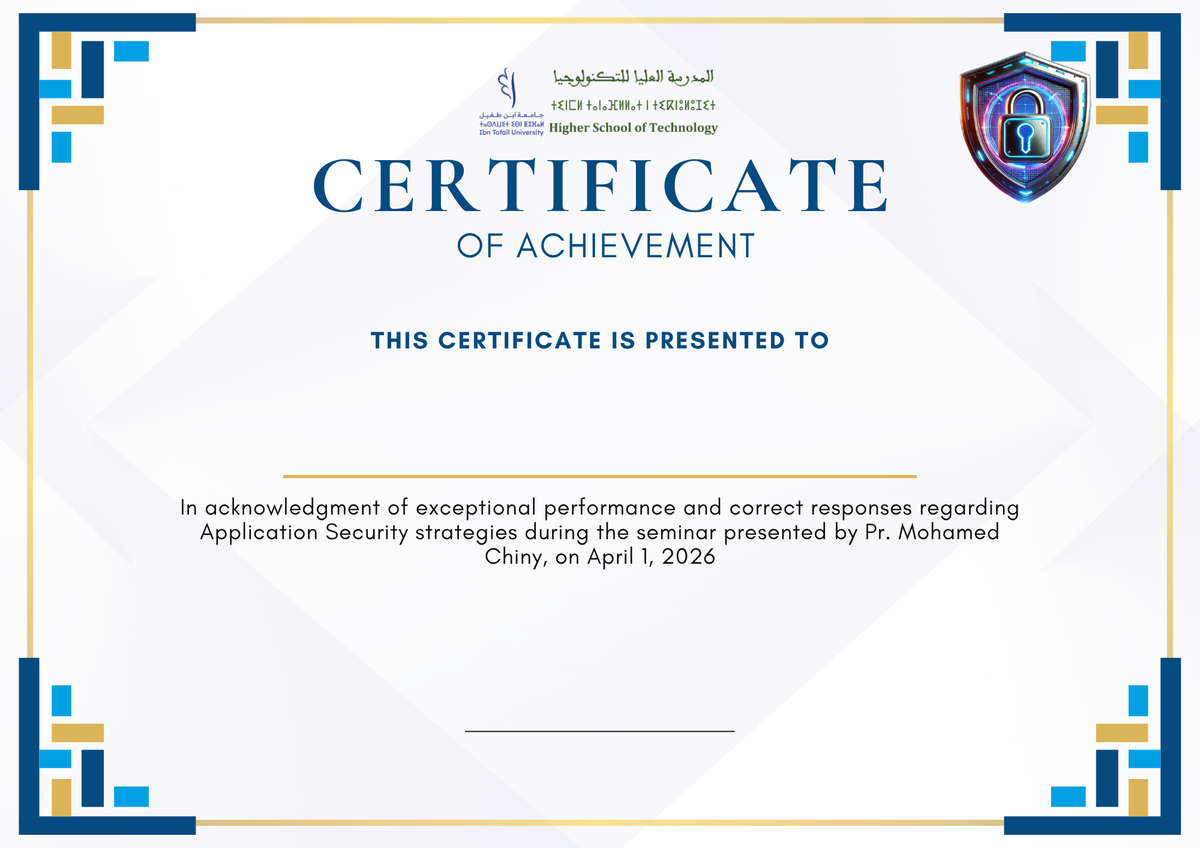
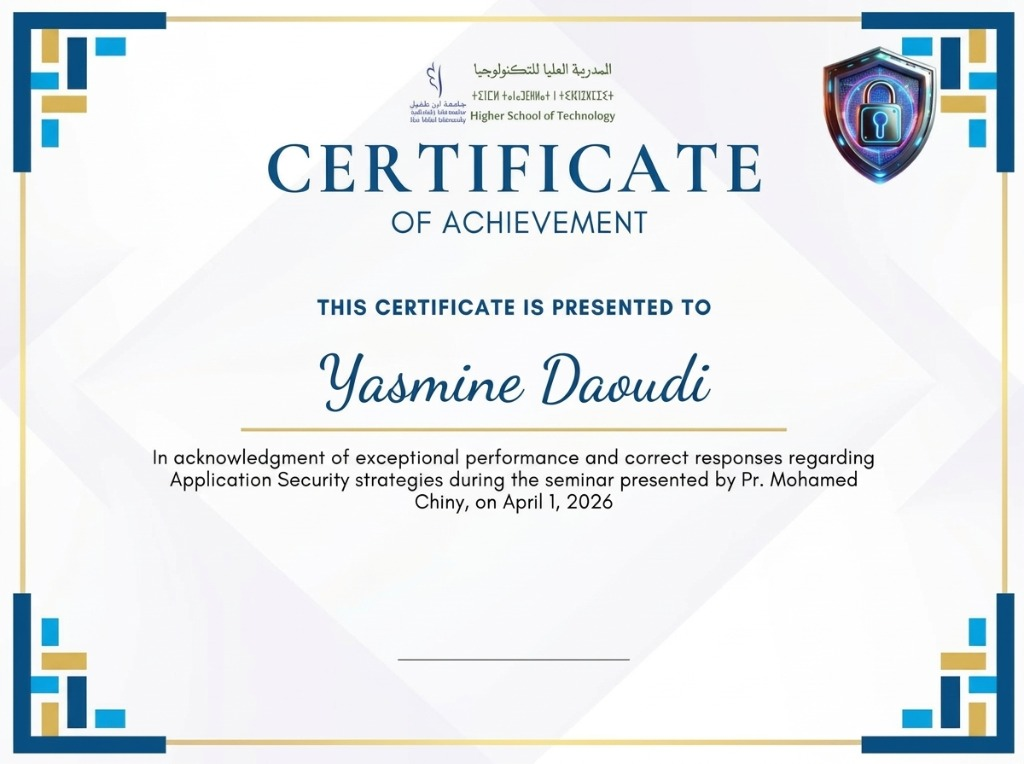
Update Application Security seminar certificate with official verified document

diff --git a/README.md b/README.md
@@ -99,6 +99,7 @@ Click any certificate to inspect the authenticated credential:
 - [![Presenting Data](https://img.shields.io/badge/Presenting_Data-HP_LIFE-0096D6?style=flat-square&logo=hp&logoColor=white)](./certificates/cert_hp_life_presenting_data.png) &middot; [**Presenting Data &middot; HP LIFE Global**](./certificates/cert_hp_life_presenting_data.png)
 - [![OOP with PHP](https://img.shields.io/badge/OOP_with_PHP-Coursera-21759B?style=flat-square&logo=coursera&logoColor=white)](./certificates/cert_oop_php_coursera.png) &middot; [**Learn Object-Oriented Programming with PHP &middot; Coursera**](./certificates/cert_oop_php_coursera.png)
 - [![Hackathon Achievement](https://img.shields.io/badge/Hackathon-Achievement_Award-7C3AED?style=flat-square&logo=trophy&logoColor=white)](./certificates/cert_hackathon_achievement.png) &middot; [**Hackathon Innovation &amp; Development Award**](./certificates/cert_hackathon_achievement.png)
-- [![Scientific Seminar Presenter](https://img.shields.io/badge/Scientific_Seminar-Presenter_Certificate-059669?style=flat-square&logo=academia&logoColor=white)](./certificates/certificate_seminar.png) &middot; [**Scientific Seminar Presenter Certificate**](./certificates/certificate_seminar.png)
+- [![Technical Internship](https://img.shields.io/badge/Technical_Internship-Certified-2563EB?style=flat-square&logo=checkmarx&logoColor=white)](./certificates/cert_technical_internship.png) &middot; [**Technical Engineering Internship Certificate**](./certificates/cert_technical_internship.png)
+- [![Application Security Seminar](https://img.shields.io/badge/Application_Security-Seminar_Certificate-059669?style=flat-square&logo=securityscorecard&logoColor=white)](./certificates/certificate_seminar.png) &middot; [**Application Security Seminar Achievement Certificate**](./certificates/certificate_seminar.png)
 
 ---
